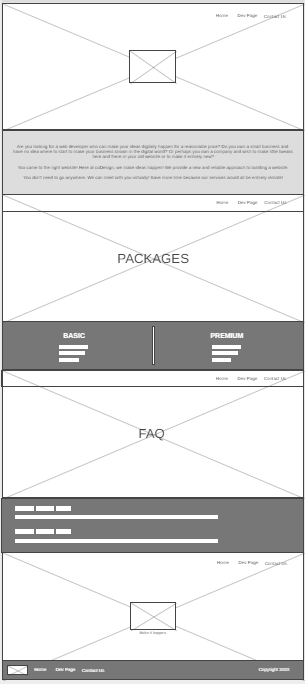
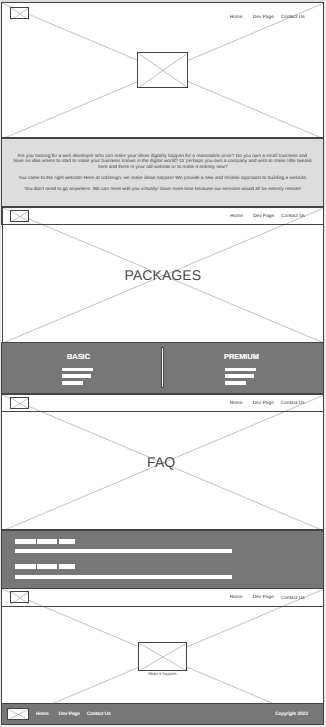
personal site home page

diff --git a/codesign/styles/style.css b/codesign/styles/style.css
@@ -21,27 +21,48 @@
 }
 
 header {
-    display: grid;
-    grid-template-columns: 150px auto;
+    display: flex;
+    justify-content: space-between;
+    padding: 0 20px;
+}
+
+header.home-header, .header {
+    position: fixed;
+    width: 100%;
+    top: 0;
+}
+
+header.active-scroll, .header {
     background-color: rgba(240, 243, 189, 0.9);
+}
+
+header.home-header nav a {
+    color: #ECF39E;
+}
+
+header.active-scroll nav a {
+    color: #132A13;
 }
 
 nav {
     display: flex;
-    justify-content: flex-end;
 }
 
 nav a {
-    color: #132A13;
+    color: #31572C;
     text-decoration: none;
     text-align: center;
     padding: 35px;
 }
 
-nav a:hover {
+header.home-header nav a:hover {
+    border-bottom: 4px solid #ECF39E;
+}
+
+nav a:hover, header.active-scroll nav a:hover {
     color: #31572C;
     border-bottom: 4px solid #132A13;
-  }
+}
 
 body, html {
     height: 100%;
@@ -50,6 +71,7 @@ body, html {
 
 .first-img {
     background-image: url('../images/home-3.jpg');
+    padding: 220px 0;
 }
 
 .home-logo {
@@ -67,8 +89,6 @@ body, html {
 
 .first-img, .second-img, .third-img {
     height: 100%; 
-
-    /* Create the parallax scrolling effect */
     background-attachment: fixed;
     background-position: center;
     background-repeat: no-repeat;
@@ -87,29 +107,54 @@ body, html {
     text-align: center;
 }
 
+.home-title {
+    padding-bottom: 12px;
+}
+
 .home-caption {
     text-align: center;
     color: #132A13;
     font-size: 100px;
     padding: 300px;
-    /* -webkit-text-stroke: 0.1px #31572C; */
+}
+
+.first-caption, .third-caption {
+    padding: 30px 70px;
+}
+
+.second-caption {
+    padding: 30px;
 }
 
 .second-caption, .third-caption {
     background-color: #31572C;
     color:#ECF39E;
     text-align: left;
-    padding: 20px;
-}
-
-.second-caption, .third-caption {
     display: grid;
     grid-template-columns: repeat(2, 1fr);
-    grid-column-gap: 30px;
+    grid-column-gap: 30px;  
 }
+
 
 .basic-list, .premium-list {
     padding: 10px;
+}
+
+.basic-card {
+    position: relative;
+}
+
+.basic-card::after {
+    content: "";
+    position: absolute;
+    height: 100%;
+    border-right: 2px solid;
+    top: 0;
+    right: -17px;
+}
+
+.basic-card, .premium-card {
+    padding: 0 235px;
 }
 
 .faq-card {
@@ -258,12 +303,11 @@ button:hover {
 } */
 
 footer {
-    padding: 10px 20px;
+    padding: 0px 20px;
     margin-top: -1px;
     align-items: center;
-    display: grid;
-    grid-template-columns: repeat(6, 1fr);
-
+    display: flex;
+    justify-content: space-between;
 }
 
 footer, footer a {
@@ -278,13 +322,18 @@ footer p {
     color: #F0F3BD;
 }
 
-.copyright {
-    grid-column: 6/6;
+.footer-container {
+    display: flex;
+    align-items: center;
 }
 
 footer a:hover {
     color: #F0F3BD;
     border-bottom: 4px solid #F0F3BD;
+}
+
+footer a#footer_logo_link:hover {
+    border-bottom: 0;
 }
 
 @media screen and (max-width: 900px) {

diff --git a/codesign/index.html b/codesign/index.html
@@ -19,7 +19,7 @@
             <a href="contactus.html">Contact Us</a>
         </nav>
     </header>
-    <main class="home-main">
+    <main class="home-main test">
         <section class="home-purpose">
             <div class="first-img">
                 <img class="home-logo" src="images/codesign-10.png" alt="coDesign logo">
@@ -109,12 +109,29 @@
         </section>
     </main>
     <footer>
-        <a id="footer_logo_link" href="index.html">
-            <img class="logo" src="images/codesign-10.png" alt="coDesign Logo">
-        </a>
-        <p><a href="site-plan.html">Site Plan</a></p>
-        <p><a href="contactus.html">Contact Us</a></p>
+        <div class="footer-container">
+            <a id="footer_logo_link" href="index.html">
+                <img class="logo" src="images/codesign-10.png" alt="coDesign Logo">
+            </a>
+            <p><a href="site-plan.html">Site Plan</a></p>
+            <p><a href="contactus.html">Contact Us</a></p>
+        </div>
         <p class="copyright">coDesign &copy; 2023 - Camille Rubia</p>
     </footer>
+    <script>
+        window.onscroll = function() {
+            scroll();
+        };
+    
+        function scroll() {
+            if (document.body.scrollTop > 20 || document.documentElement.scrollTop > 20) {
+                document.querySelector(".home-header").classList.add("active-scroll");
+            }
+            else{
+                document.querySelector(".home-header").classList.remove("active-scroll");
+            }
+        }
+    
+    </script>
 </body>
 </html>

diff --git a/codesign/contactus.html b/codesign/contactus.html
@@ -4,11 +4,11 @@
     <meta charset="UTF-8">
     <meta http-equiv="X-UA-Compatible" content="IE=edge">
     <meta name="viewport" content="width=device-width, initial-scale=1">
-    <title>coDesign - Home</title>
+    <title>coDesign - Contact Us</title>
     <link rel="stylesheet" href="styles/style.css">
 </head>
 <body>
-    <header class="home-header">
+    <header class="header">
         <a id="logo_link" href="index.html">
             <img class="logo" src="images/codesign-9.png" alt="coDesign Logo">
         </a>

diff --git a/codesign/devpage.html b/codesign/devpage.html
@@ -4,11 +4,11 @@
     <meta charset="UTF-8">
     <meta http-equiv="X-UA-Compatible" content="IE=edge">
     <meta name="viewport" content="width=device-width, initial-scale=1">
-    <title>coDesign - Home</title>
+    <title>coDesign - Dev Page</title>
     <link rel="stylesheet" href="styles/style.css">
 </head>
 <body>
-    <header class="home-header">
+    <header class="header">
         <a id="logo_link" href="index.html">
             <img class="logo" src="images/codesign-9.png" alt="coDesign Logo">
         </a>
